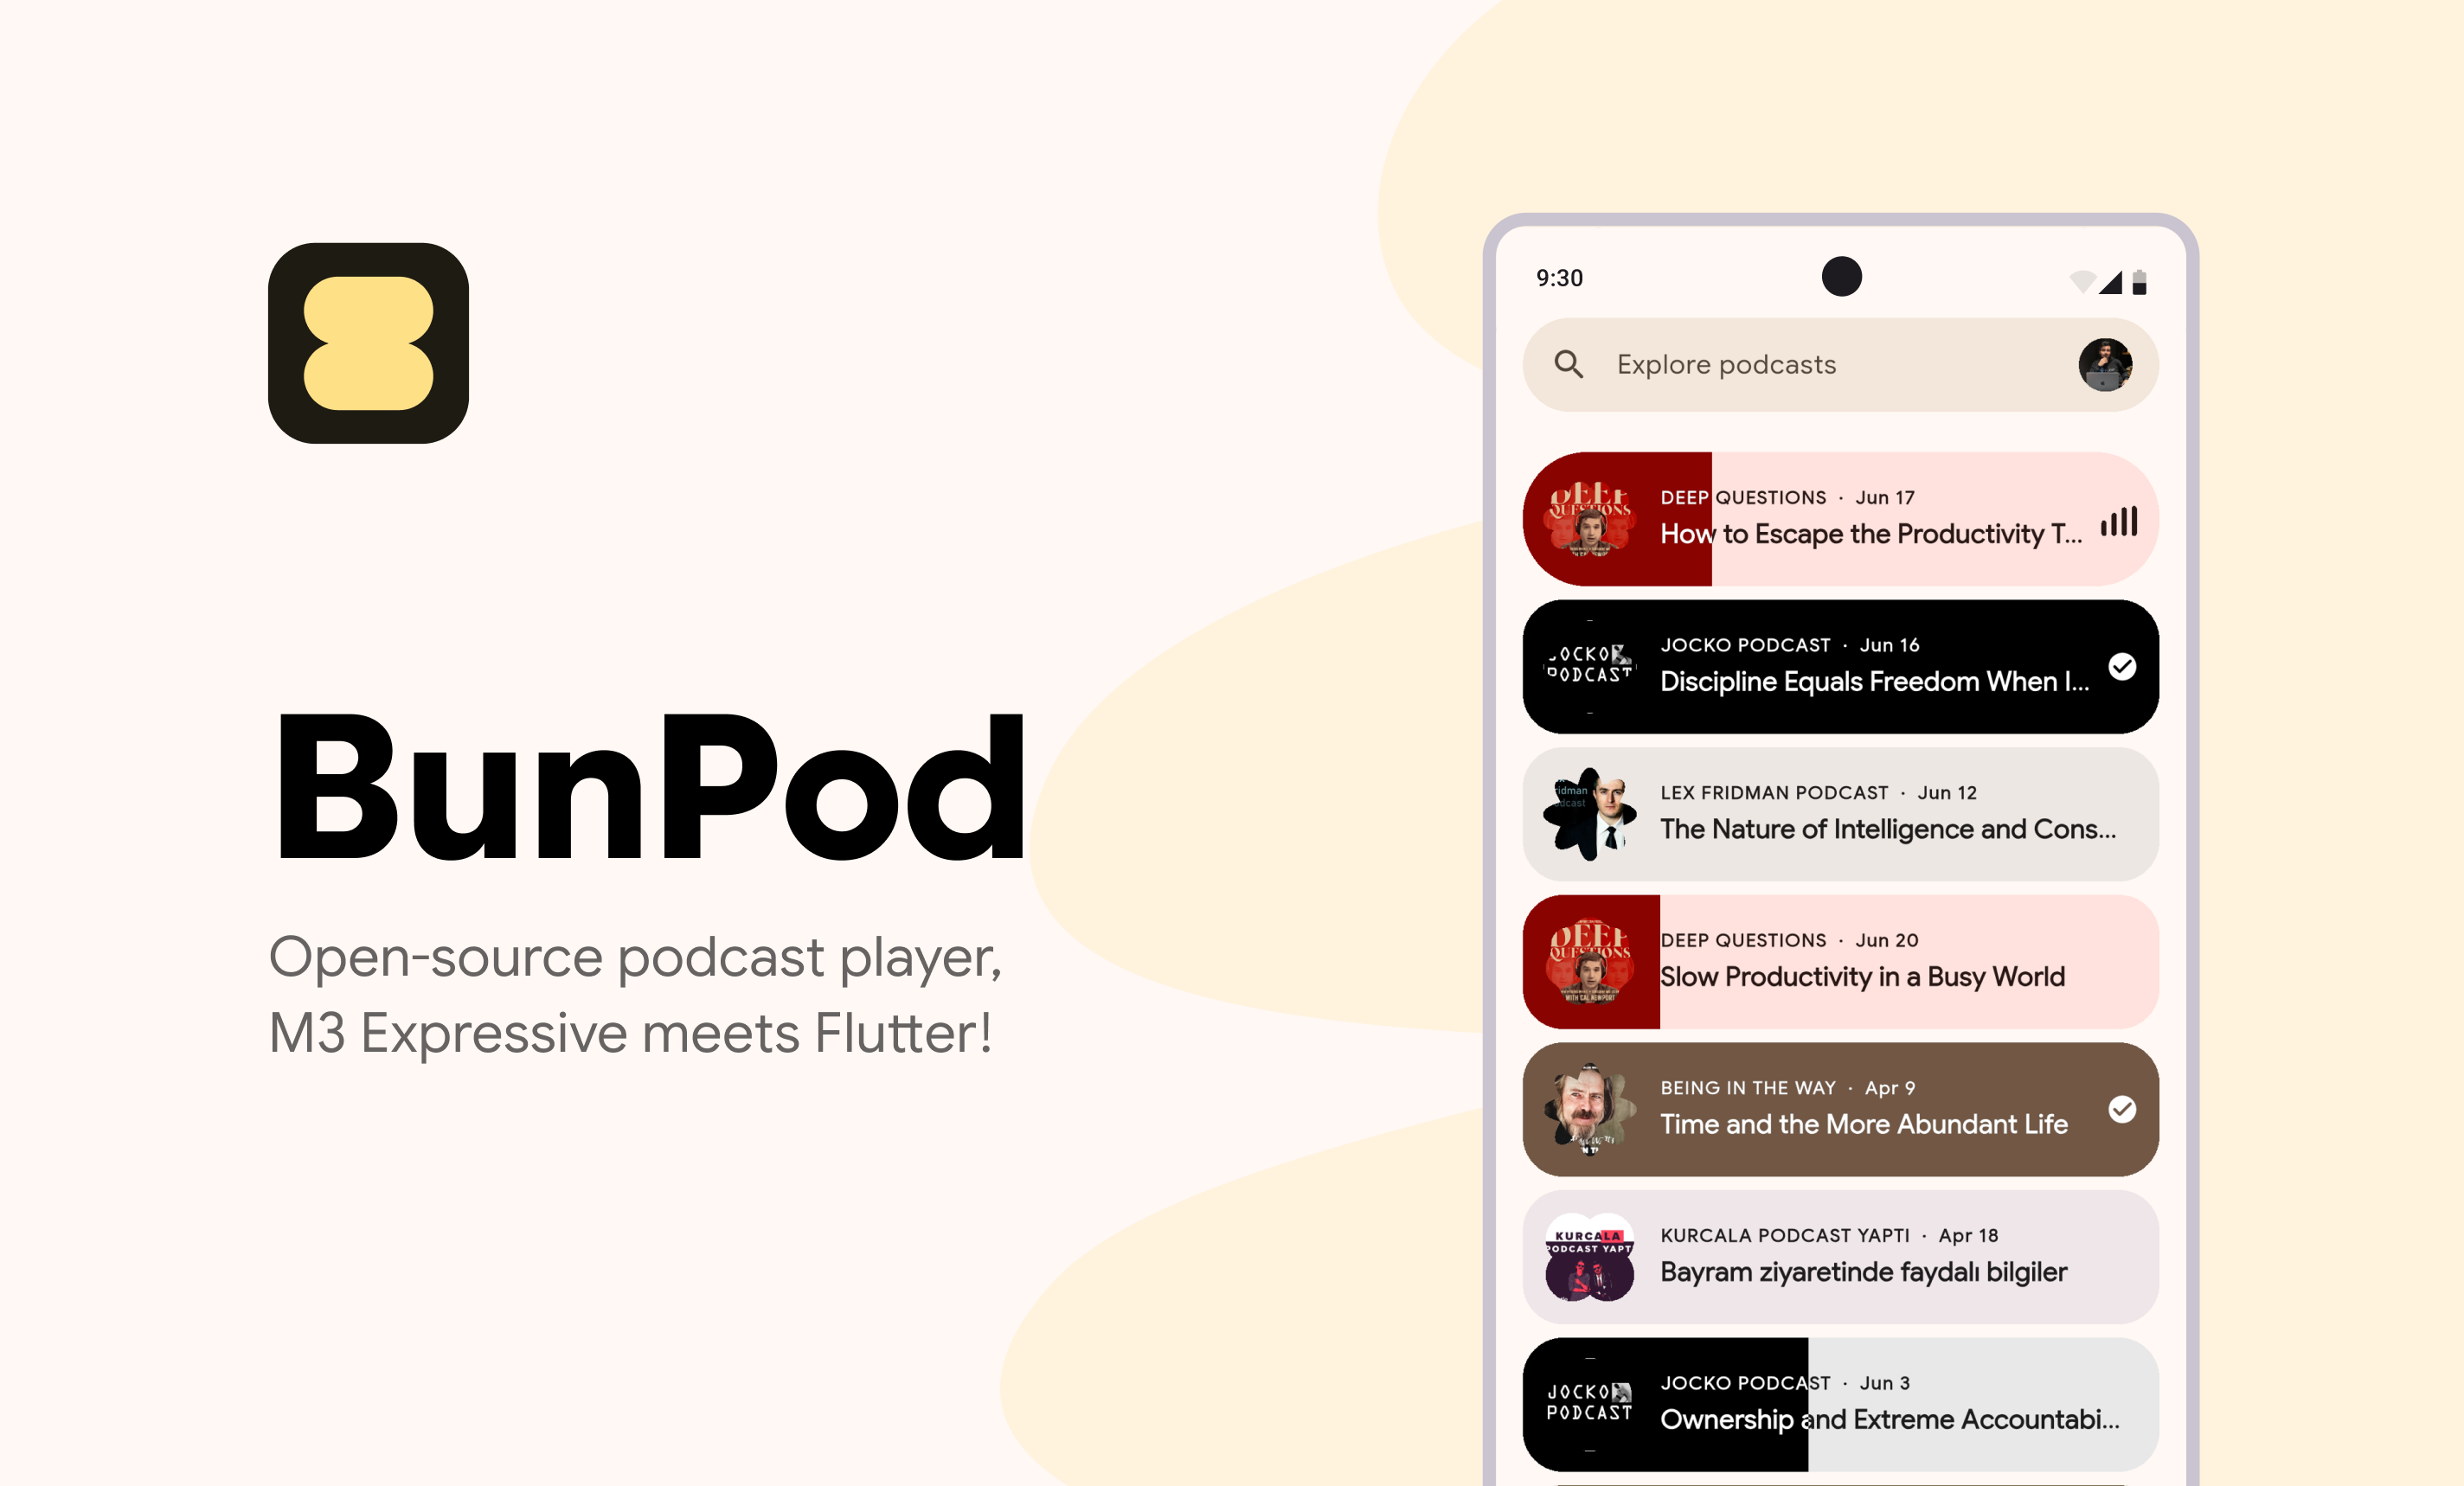
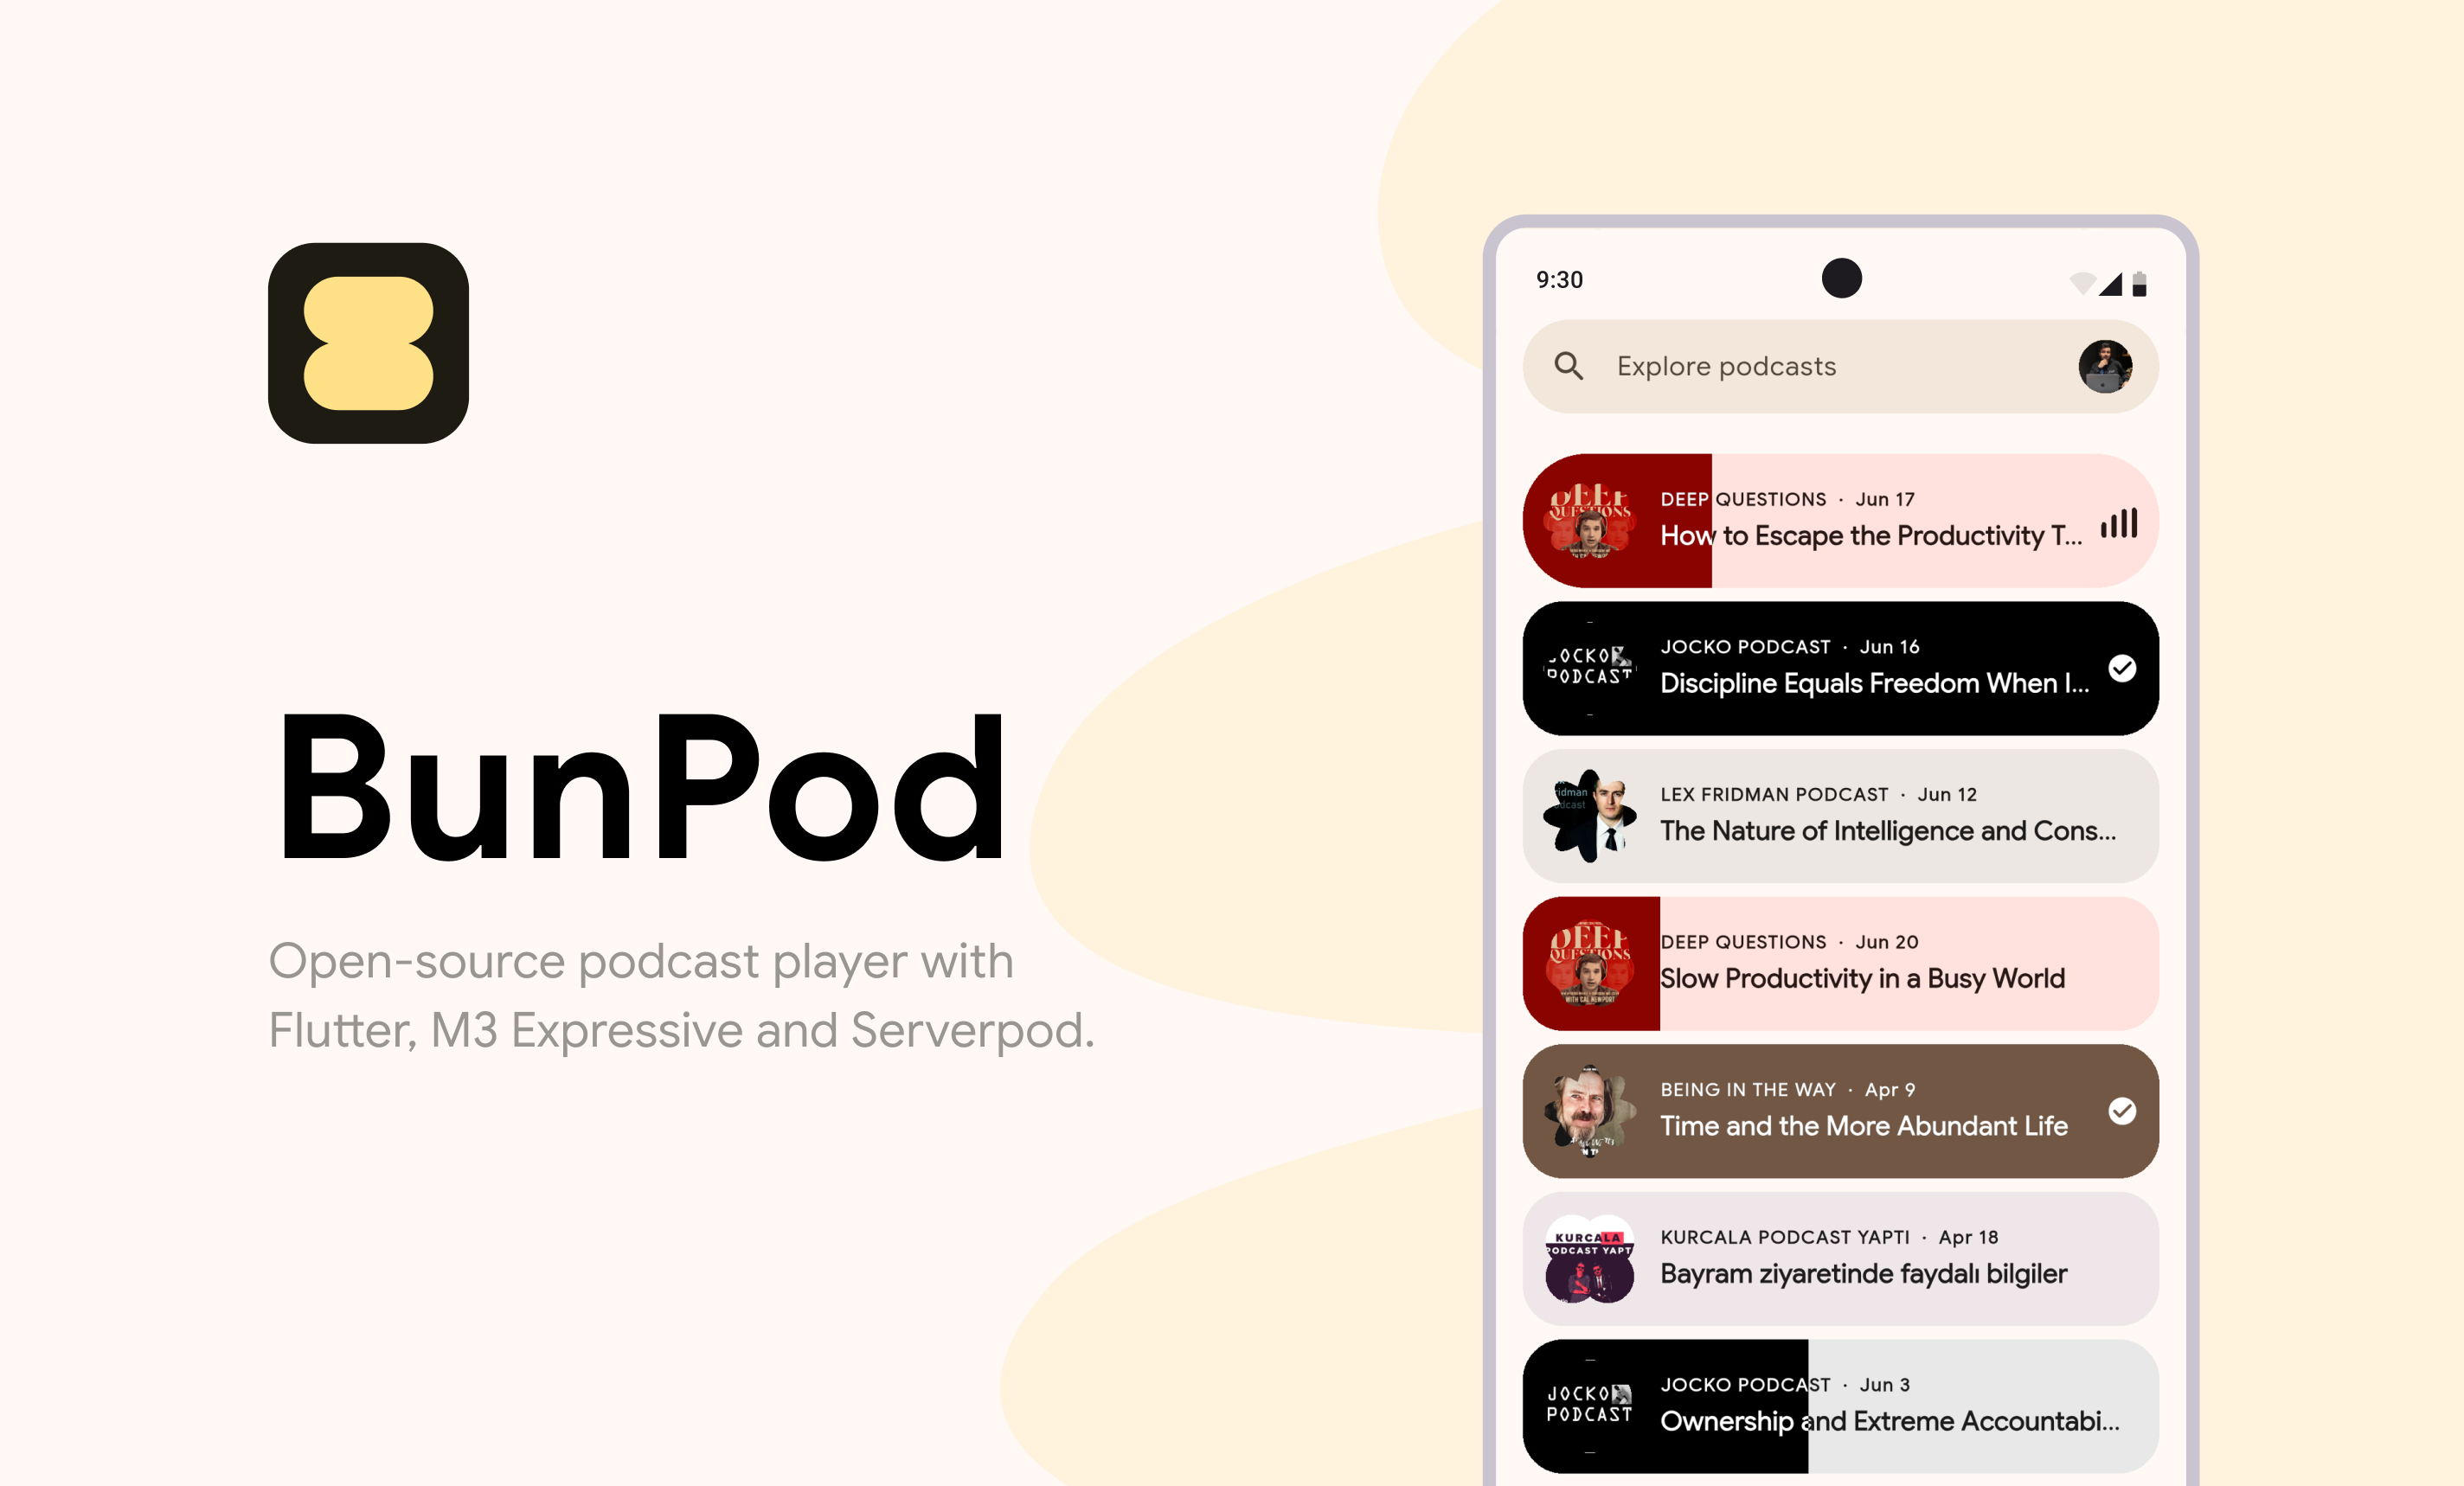
docs: update readme and cover

diff --git a/README.md b/README.md
@@ -6,29 +6,21 @@
 <h1 align="center">BunPod</h1>
 
 <p align="center">
-  An open-source podcast player — built in the open.
+  An open-source podcast player — Flutter, M3 Expressive and Serverpod!
 </p>
 
 ---
 
-## What is this?
-
-A podcast player, crafted with care:
-
-- 🎙️ **Flutter** — one codebase, every screen.
-- 🧩 **Serverpod** — the Dart backend powering it all.
-- 🎨 **Material 3 Expressive** — bold shapes, living color, motion with personality.
-
 ## Status
 
-🚧 **Coming soon.** Being built piece by piece, out loud.
+🚧 **Coming soon.** 
 
 ## Follow along
 
-The whole journey is shared on X — design calls, code, the messy middle.
+The whole journey is shared on X — follow along.
 
 👉 **[@kamranbekirovyz](https://x.com/kamranbekirovyz)**
 
 ---
 
-<p align="center"><i>I design &amp; build products like this — <a href="https://kamranbekirov.com" target="_blank" rel="noopener">kamranbekirov.com</a></i></p>
+<p align="center"><i>I build Flutter apps — <a href="https://kamranbekirov.com" target="_blank" rel="noopener">kamranbekirov.com</a></i></p>